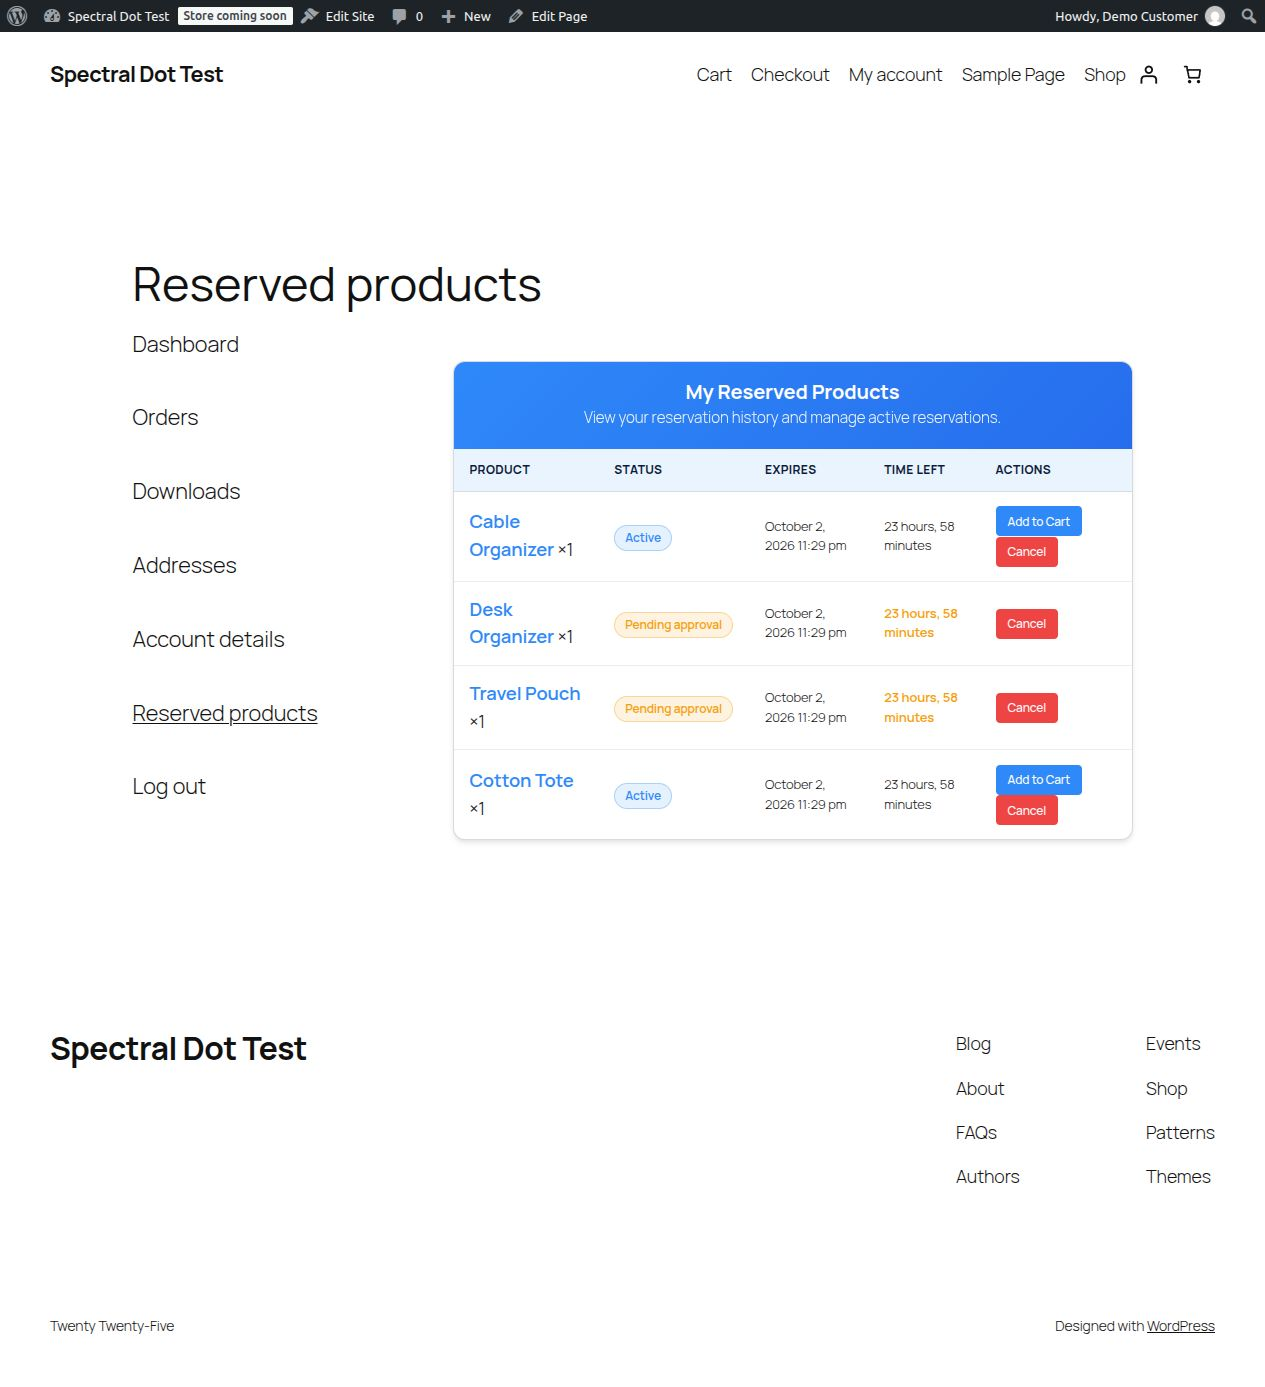
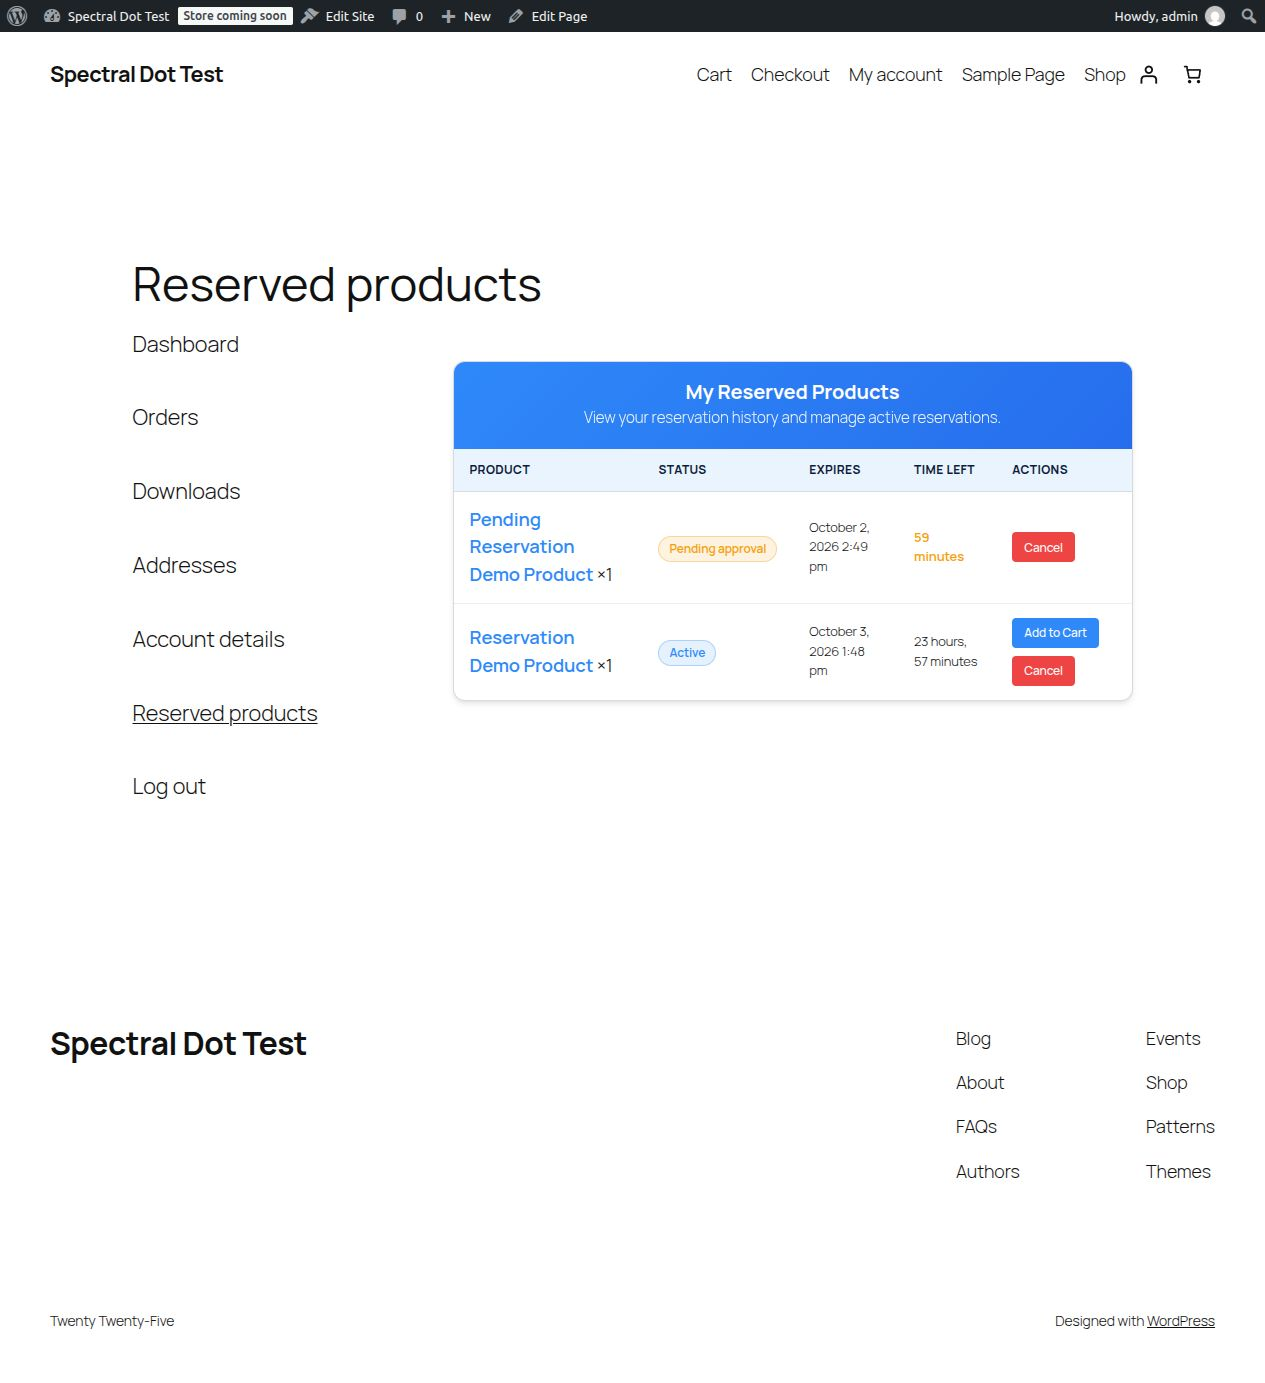
Space plugin notices and refresh verified reservation table captures

diff --git a/assets/css/admin-style.css b/assets/css/admin-style.css
@@ -111,6 +111,10 @@ body.sdpr-admin-page #wpcontent {
     padding: 1.5rem;
 }
 
+.sdpr-admin-wrapper .sdpr-admin-content > .notice {
+    margin: 0 0 20px;
+}
+
 .sdpr-admin-wrapper--wide .sdpr-header-content,
 .sdpr-admin-wrapper--wide .sdpr-admin-content {
     max-width: none;

diff --git a/.wordpress-org/README.md b/.wordpress-org/README.md
@@ -30,7 +30,7 @@ Screenshots 1, 2, 4, 5 and 6 were captured directly from the current Free develo
 
 Screenshot 3 was refreshed from the actual modal on 2026-10-02 after the contrast and result-state corrections, including the current stopwatch Reserve button in the product background. The heading and close button have a dedicated header row. Successful submissions replace the confirmation question with a result heading and notice; errors keep the confirmation form available. Active and pending success, duplicate errors, modal reset, Tab/Shift+Tab wrapping, Escape closing and opener-focus restoration were checked in the browser. Notice/close-control separation was verified at desktop, 390px and 320px widths.
 
-Earlier browser input stalled at My Account's native cancellation confirmation. After recovery, the modal checks and final styled-modal capture were completed. Native-confirmation admin/customer actions still need their broader visual retest. All six images now reflect the current captured interfaces, but these captures do not constitute final interaction/accessibility sign-off or an exact-release-ZIP test.
+The final browser pass verified administrator and Shop Manager actions, customer cancellation, customer isolation and restricted roles. Screenshots 4 and 5 were recaptured from the exact 1.0.0 candidate after the customer action spacing and compact admin urgency badge corrections. Desktop wrapping and 390px stacked account buttons retain an 8px gap; the pending badge has its own visible border and does not scale the table cell. The temporary demonstration records were removed afterwards. These checks do not claim full screen-reader or accessibility conformance certification.
 
 All screenshots use their actual JPEG format and `.jpg` extension. The previous modal reference was also JPEG data despite its `.png` filename; its extension was corrected without changing its pixels. WordPress.org supports both `.jpg` and `.png` screenshot names; keep exactly one file per number. See the [official directory asset guidance](https://developer.wordpress.org/plugins/wordpress-org/plugin-assets/#screenshots).
 

diff --git a/CHANGELOG.md b/CHANGELOG.md
@@ -61,3 +61,4 @@ Initial public release under the Spectral Dot branding. This is a fresh installa
 - Aligned the plugin settings-save capability with its merchant menu capability so Shop Managers can save settings without access to unrelated WordPress options.
 - Replaced the native denial prompt with an accessible inline reason form, explicit submit/cancel controls and focus restoration.
 - Kept customer reservation actions separated when they wrap or stack, and rendered admin urgency indicators as compact badges rather than styled table cells.
+- Added consistent spacing below settings and reservation-action notices within plugin screens.
